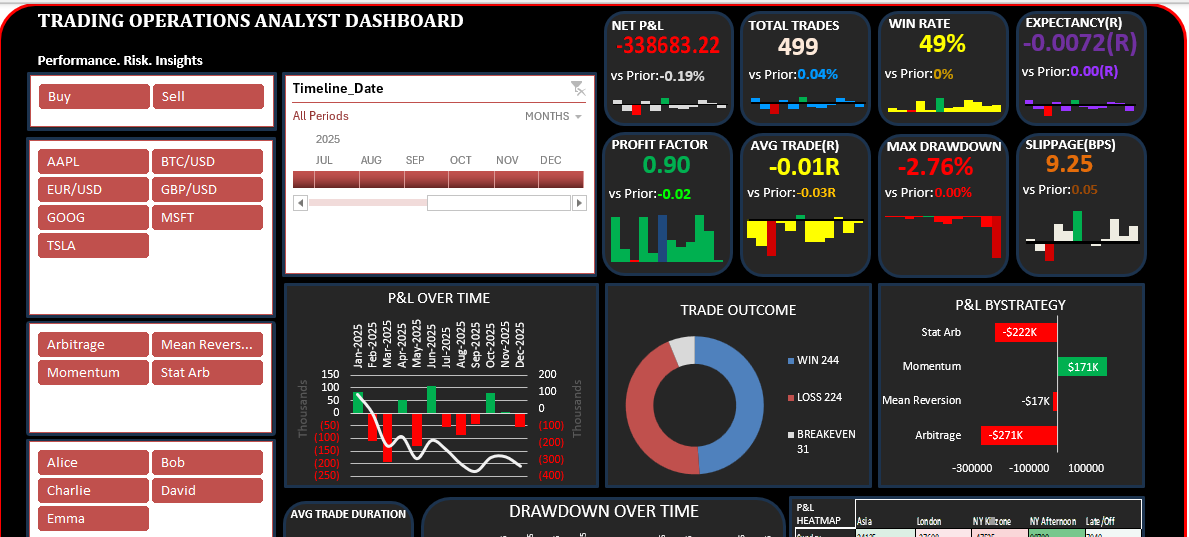
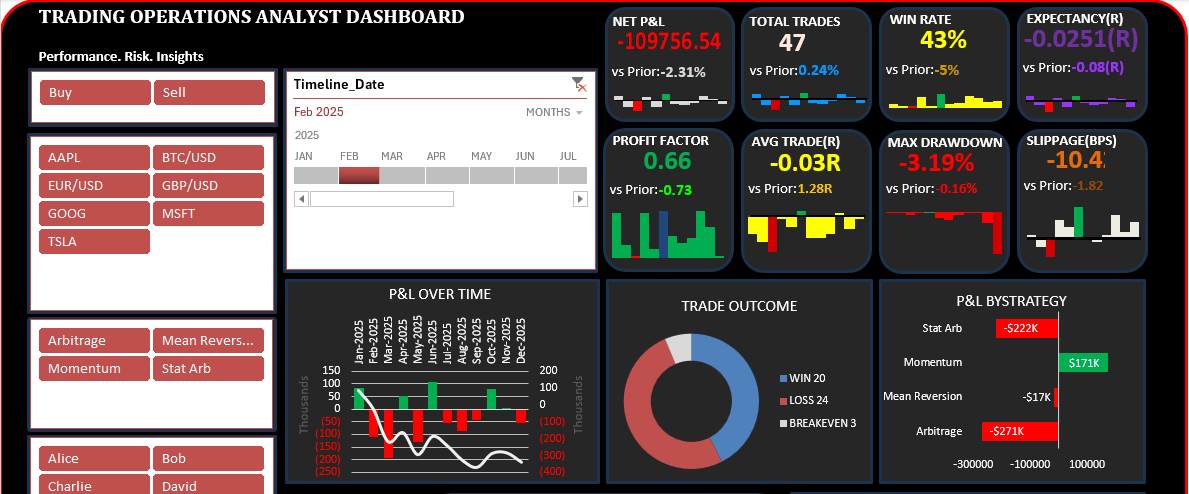
Added a report png file to the readme.md

diff --git a/README.md b/README.md
@@ -126,9 +126,11 @@ Trading-Operations-Excel-Dashboard/
 
 # 📸 Dashboard Preview
 
-![Dashboard Overview](/SCREENSHOTS/dashboard1.png)
+![Dashboard Overview](SCREENSHOTS/dashboard1.png)
 
-![Dashboard Overview](/SCREENSHOTS/dashboard2.png)
+![Dashboard Overview](SCREENSHOTS/dashboard2.png)
+
+![Report](SCREENSHOTS/report.png)
 
 ---
 